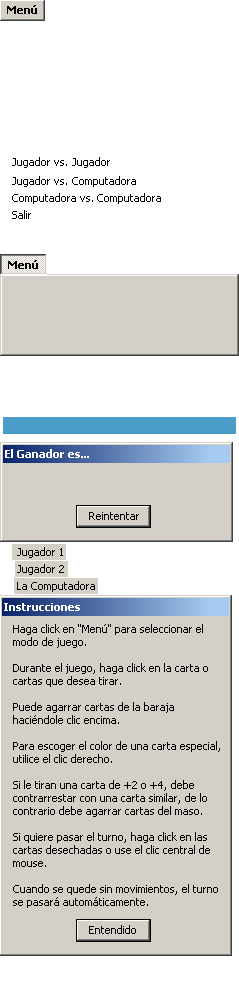
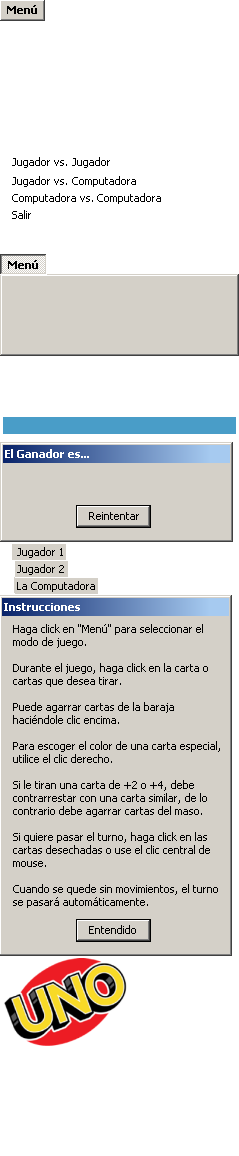
Add feature: UNO Button partially implemented

diff --git a/src/game_ui.cpp b/src/game_ui.cpp
@@ -7,7 +7,10 @@ GameUI::GameUI(sf::Texture &texture)
 	dialog = 0;
 	dialogX = 0;
 	dialogY = 0;
+	divider = 0;
 	lastGameMode = 0;
+	humanPlayer = true;
+	wasPressed = false;
 
 }
 
@@ -16,7 +19,27 @@ GameUI::~GameUI()
 
 }
 
-void GameUI::drawOn(sf::RenderWindow &window) {
+void GameUI::drawUnoButton(sf::RenderWindow &window){
+
+	unoButtonX =(window.getSize().x/2)-78;
+	unoButtonY =(window.getSize().y/2)-40;
+	sprite.setTextureRect(sf::IntRect(0,957,135,149));
+
+	sprite.setPosition(unoButtonX,unoButtonY);
+	sprite.move( (145 / divider) -10, 20 / divider);
+	sprite.setColor(sf::Color(10,10,10,(9*divider)+35));
+	window.draw(sprite);
+
+	sprite.setPosition(unoButtonX,unoButtonY);
+	sprite.move( -25 / divider, -25 / divider);
+	sprite.setColor(sf::Color(255,255,255,255));
+
+	window.draw(sprite);
+	std::cout<<wasPressed<<std::endl;
+
+}
+
+void GameUI::drawGui(sf::RenderWindow &window) {
 
 	sprite.setPosition(0,0);
 	sprite.setOrigin(0,0);
@@ -87,15 +110,48 @@ void GameUI::hitbox(sf::Vector2f &mouse, int &click){
 		}
 	}
 
-	bool buttonPressed = click == 1&&
+	bool closeDialog= click == 1&&
 	(mouse.x > dialogX +76) && ( mouse.x < dialogX + 150)&&
 	(mouse.y > dialogY +63) && ( mouse.y < dialogY + 85);
 
 	if (dialog > 0) {
-		if (buttonPressed) {dialog = 0; event = lastGameMode;}
+		if (closeDialog) {dialog = 0; event = lastGameMode; }
 
 		click = 0;
 	}
+
+	if (!humanPlayer) {divider = 10;}
+
+	bool isTouchingButton =
+	(mouse.x > unoButtonX+15) && ( mouse.y > unoButtonY)&&
+	(mouse.x < unoButtonX+115) && ( mouse.y < unoButtonY+85);
+
+	if (isTouchingButton) {
+
+		if (click == 1) {
+			divider = 10;
+			wasPressed = true;
+			return;
+		}
+
+		if (divider > 4) {divider--;}
+
+
+	} else {
+
+		if (divider < 10) {divider++;}
+
+	}
+
+}
+
+bool GameUI::unoWasPressed(){
+	return wasPressed;
+}
+
+void GameUI::resetUnoButton(bool isHuman){
+	wasPressed = false;
+	humanPlayer = isHuman;
 
 }
 

diff --git a/main.cpp b/main.cpp
@@ -46,8 +46,8 @@ int main(int argc, char* argv[])
 	Players[0].init(window,false);
 	Players[1].init(window,true);
 
-    NewDeck Deck(-55,50,unoCards,window);
-    NewDeck Wastepile(55,50,window);
+    NewDeck Deck(-125,40,unoCards,window);
+    NewDeck Wastepile(125,40,window);
 
 	newGame(Players, Deck, Wastepile, window, unoCards, 1);
 
@@ -62,6 +62,7 @@ int main(int argc, char* argv[])
 
         if (UserInterface.event > 0) {
 			newGame(Players, Deck, Wastepile, window, unoCards, UserInterface.event);
+			UserInterface.resetUnoButton(Players[turn].isHuman);
         }
 
         thisTurn(Players,Deck,Wastepile,UserInterface);

diff --git a/include/player_turn.h b/include/player_turn.h
@@ -55,8 +55,19 @@ void thisTurn(NewHand Players[], NewDeck &Deck, NewDeck &Wastepile, GameUI &User
 		if (Player.isHuman) { UserInterface.dialog = turn+1;}
 	}
 
+	bool unoNotPressed = false;
+
     if (playerIsOver) {
+		unoNotPressed = !UserInterface.unoWasPressed()&&Player.isHuman&&Player.lastCard()==0;
+
+		if (!Deck.isEmpty()&&unoNotPressed) {Player.addCard(Deck.grabCard());}
+		if (!Deck.isEmpty()&&unoNotPressed) {Player.addCard(Deck.grabCard());}
+
 		switchTurn(Players); Deck.enableAll();
+		UserInterface.resetUnoButton(Players[turn].isHuman);
+
 	}
+
+
 
 }

diff --git a/include/game_ui.h b/include/game_ui.h
@@ -10,16 +10,20 @@ public:
 
 	GameUI(sf::Texture &texture);
 	virtual ~GameUI();
-	void drawOn(sf::RenderWindow &window);
+	void drawGui(sf::RenderWindow &window);
+	void drawUnoButton(sf::RenderWindow &window);
 	void hitbox(sf::Vector2f &mouse, int &click);
 	int dialog;
 	int event;
+	bool unoWasPressed();
+	void resetUnoButton(bool isHuman);
 
 private:
 	bool isOpen;
 	float ySelection;
-	int dialogX;
-	int dialogY;
+	int dialogX,dialogY,unoButtonX,unoButtonY, divider;
+	bool wasPressed;
+	bool humanPlayer;
 	int lastGameMode;
 	sf::Sprite sprite;
 

diff --git a/src/new_deck.cpp b/src/new_deck.cpp
@@ -6,7 +6,7 @@ void NewDeck::createCard (int cardNum, sf::Texture &texture){
 }
 
 NewDeck::~NewDeck(){
-	cout<<"Deck Destroyed"<<endl;
+
 }
 
 void NewDeck::reset(){
@@ -73,7 +73,7 @@ void NewDeck::drawOn (sf::RenderWindow &window) { // Draws only the last 4 cards
 	}
 
 	if (autoPurge && (Cards.size() > 5)) {eraseCard(Cards.size() - 5);} // Erase previously used cards
-	//cout<<cardCount<<endl;
+
 }
 
 void NewDeck::refreshPos() { // Aligns the last 4 cards, resembles the look of a card deck...

diff --git a/include/user_interaction.h b/include/user_interaction.h
@@ -66,10 +66,11 @@ void drawOn(sf::RenderWindow &window, sf::Sprite &background, NewHand Players[],
 
 	window.clear();
 	window.draw(background);
+	UserInterface.drawUnoButton(window);
 	Deck.drawOn(window);
 	Wastepile.drawOn(window);
 	Players[0].drawOn(window);
 	Players[1].drawOn(window);
-	UserInterface.drawOn(window);
+	UserInterface.drawGui(window);
 
 }

diff --git a/src/storage_interaction.cpp b/src/storage_interaction.cpp
@@ -2,12 +2,12 @@
 
 StorageInteraction::StorageInteraction()
 {
-	cout<<"Inheritance Successful"<<endl;
+
 }
 
 StorageInteraction::~StorageInteraction()
 {
-	cout<<"StorageInteraction - Destruction Successful"<<endl;
+
 }
 
 void StorageInteraction::reset(){

diff --git a/src/new_hand.cpp b/src/new_hand.cpp
@@ -1,11 +1,11 @@
 #include "new_hand.h"
 
 NewHand::NewHand() : HandControl() {
-	//Dummy;
+
 }
 
 NewHand::~NewHand(){
-	cout<<"Hand Destroyed"<<endl;
+
 }
 
 void NewHand::init(sf::RenderWindow &window, bool adjustTopP) {

diff --git a/src/hand_control.cpp b/src/hand_control.cpp
@@ -2,13 +2,11 @@
 
 HandControl::HandControl() : StorageInteraction()
 {
-	cout<<"^^^^^^HandControl"<<endl;
 
 };
 
 HandControl::~HandControl()
 {
-	cout<<"^^^^^^HandControl"<<endl;
 
 };
 
